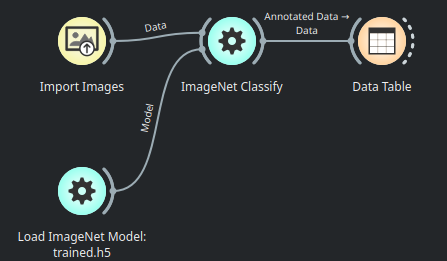
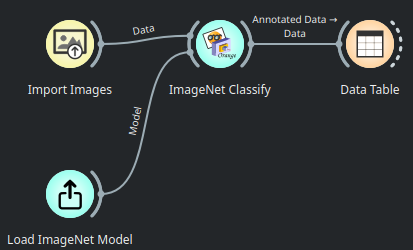
added preprocess

Changed region(s): [[0.0, 0.028, 0.9879, 1.0], [0.0581, 0.308, 0.2906, 0.392], [0.7845, 0.308, 0.9879, 0.392]]

diff --git a/orangecontrib/imagenets/widgets/ow_image_preprocessor.py b/orangecontrib/imagenets/widgets/ow_image_preprocessor.py
@@ -1,0 +1,240 @@
+import os
+import numpy as np
+import cv2
+
+from AnyQt.QtCore import Qt
+from AnyQt.QtGui import QPixmap, QFont
+from AnyQt.QtWidgets import QLabel, QVBoxLayout, QFileDialog, QPushButton, QCheckBox, QSpinBox, QHBoxLayout, QFrame, QGroupBox
+from PyQt5.QtCore import QThread, pyqtSignal
+
+from Orange.widgets import gui
+from Orange.widgets.widget import OWWidget, Input, Output
+from Orange.widgets.settings import Setting
+from Orange.data import Table, Domain, StringVariable
+
+from orangecontrib.imagenets.util.image_table import image_table_variables
+
+class PreprocessWorker(QThread):
+    progress = pyqtSignal(int)
+    finished = pyqtSignal(object)
+
+    def __init__(self, data, output_dir, do_grayscale, do_resize, resize_width, resize_height, do_normalize):
+        super().__init__()
+        self.data = data
+        self.output_dir = output_dir
+        self.do_grayscale = do_grayscale
+        self.do_resize = do_resize
+        self.resize_width = resize_width
+        self.resize_height = resize_height
+        self.do_normalize = do_normalize
+        self.origin, self.image_col_index = image_table_variables(data)
+
+    def run(self):
+        total = len(self.data)
+
+        for i, row in enumerate(self.data):
+            img_path = os.path.join(self.origin, row.metas[self.image_col_index])
+            if not os.path.exists(img_path):
+                continue
+            img = cv2.imread(img_path)
+            if self.do_grayscale:
+                img = cv2.cvtColor(img, cv2.COLOR_BGR2GRAY)
+            if self.do_resize:
+                img = cv2.resize(img, (self.resize_width, self.resize_height))
+            if self.do_normalize:
+                img = cv2.normalize(img, None, 0, 255, cv2.NORM_MINMAX)
+            img = img.astype(np.uint8)
+            out_path = os.path.join(self.output_dir, row.metas[self.image_col_index])
+            out_dir = os.path.dirname(out_path)
+            if not os.path.exists(out_dir):
+                os.makedirs(out_dir, exist_ok=True)
+            cv2.imwrite(out_path, img)
+            self.progress.emit(int(100 * (i + 1) / total))
+
+        data = self.data.copy()
+        data.domain.metas[self.image_col_index].attributes["origin"] = self.output_dir
+        self.finished.emit(data)
+
+class OWImagePreprocessor(OWWidget):
+    name = "Preprocess Images"
+    description = "Resize and normalize images, saving to disk."
+    icon = "icons/preprocess.svg"
+    priority = 10
+
+    class Inputs:
+        data = Input("Data", Table)
+
+    class Outputs:
+        preprocessed_data = Output("Preprocessed Data", Table)
+
+    do_grayscale = Setting(False)
+    do_resize = Setting(True)
+    resize_width = Setting(224)
+    resize_height = Setting(224)
+    do_normalize = Setting(False)
+
+    def __init__(self):
+        super().__init__()
+        self.data = None
+        self.output_dir = None
+        self.layout_controlArea()
+        self.layout_mainArea()
+
+    def layout_controlArea(self):
+        select_button = QPushButton("Select Output Folder")
+        select_button.clicked.connect(self.select_folder)
+        self.info_label = QLabel("Waiting for input...")
+
+        self.gray_cb = QCheckBox("Convert to Grayscale")
+        self.gray_cb.setChecked(self.do_grayscale)
+        self.gray_cb.stateChanged.connect(lambda: self.settings_changed("do_grayscale", self.gray_cb.isChecked()))
+
+        self.resize_cb = QCheckBox("Resize Images")
+        self.resize_cb.setChecked(self.do_resize)
+        self.resize_cb.stateChanged.connect(lambda: self.settings_changed("do_resize", self.resize_cb.isChecked()))
+
+        self.width_spin = QSpinBox()
+        self.width_spin.setRange(32, 2048)
+        self.width_spin.setValue(self.resize_width)
+        self.width_spin.valueChanged.connect(lambda val: self.settings_changed("resize_width", val))
+
+        self.height_spin = QSpinBox()
+        self.height_spin.setRange(32, 2048)
+        self.height_spin.setValue(self.resize_height)
+        self.height_spin.valueChanged.connect(lambda val: self.settings_changed("resize_height", val))
+
+        self.norm_cb = QCheckBox("Normalize Images")
+        self.norm_cb.setChecked(self.do_normalize)
+        self.norm_cb.stateChanged.connect(lambda: self.settings_changed("do_normalize", self.norm_cb.isChecked()))
+
+        size_frame = QFrame()
+        size_layout = QHBoxLayout()
+        size_layout.addWidget(QLabel("Width:"))
+        size_layout.addWidget(self.width_spin)
+        size_layout.addWidget(QLabel("Height:"))
+        size_layout.addWidget(self.height_spin)
+        size_frame.setLayout(size_layout)
+
+        a = self.controlArea.layout().addWidget
+        a(self.info_label)
+        a(select_button)
+        a(self.gray_cb)
+        a(self.norm_cb)
+        a(self.resize_cb)
+        a(size_frame)
+
+        self.controlArea.layout().setAlignment(Qt.AlignTop)
+
+    def layout_mainArea(self):
+        # Font for titles
+        title_font = QFont()
+        title_font.setBold(True)
+        title_font.setPointSize(12)
+
+        # ---- Before Group ----
+        before_group = QGroupBox("Before")
+        before_group.setStyleSheet("QGroupBox { font-weight: bold; border: 1px solid gray; margin-top: 10px; }")
+        before_layout = QVBoxLayout()
+
+        self.image_label = QLabel("No preview available")
+        self.image_label.setAlignment(Qt.AlignCenter)
+        self.image_label.setMinimumSize(256, 256)
+        before_layout.addWidget(self.image_label)
+
+        before_group.setLayout(before_layout)
+
+        # ---- After Group ----
+        after_group = QGroupBox("After")
+        after_group.setStyleSheet("QGroupBox { font-weight: bold; border: 1px solid gray; margin-top: 10px; }")
+        after_layout = QVBoxLayout()
+
+        self.aug_image_label = QLabel("No preview available")
+        self.aug_image_label.setAlignment(Qt.AlignCenter)
+        self.aug_image_label.setMinimumSize(256, 256)
+        after_layout.addWidget(self.aug_image_label)
+
+        after_group.setLayout(after_layout)
+
+        # ---- Add to mainArea ----
+        layout = self.mainArea.layout()
+        layout.addWidget(before_group)
+        layout.addWidget(after_group)
+
+    def settings_changed(self, attr, value):
+        setattr(self, attr, value)
+        self.show_preview_image()
+
+    def select_folder(self):
+        folder = QFileDialog.getExistingDirectory(self, "Select Folder")
+        if folder:
+            self.output_dir = folder
+            self.try_preprocess()
+
+    @Inputs.data
+    def set_data(self, data):
+        self.data = data
+        #self.try_preprocess()
+        self.show_preview_image()
+
+    def try_preprocess(self):
+        if self.data is not None and self.output_dir:
+            self.info_label.setText("Preprocessing...")
+            self.progressBarInit()
+
+            self.worker = PreprocessWorker(
+                self.data, self.output_dir,
+                self.do_grayscale,
+                self.do_resize,
+                self.resize_width,
+                self.resize_height,
+                self.do_normalize
+            )
+            self.worker.progress.connect(self.progressBarSet)
+            self.worker.finished.connect(self.handle_preprocessed)
+            self.worker.start()
+
+    def handle_preprocessed(self, table: Table):
+        self.Outputs.preprocessed_data.send(table)
+        self.progressBarFinished()
+        self.info_label.setText("Preprocessing complete.")
+
+    def preprocess_image(self, img_path: str) -> QPixmap:
+        img = cv2.imread(img_path)
+        if self.do_grayscale:
+            img = cv2.cvtColor(img, cv2.COLOR_BGR2GRAY)
+        if self.do_resize:
+            img = cv2.resize(img, (self.resize_width, self.resize_height))
+        if self.do_normalize:
+            img = cv2.normalize(img, None, 0, 255, cv2.NORM_MINMAX)
+        img = img.astype(np.uint8)
+        is_success, buffer = cv2.imencode(".png", img)
+        pixmap = QPixmap()
+        pixmap.loadFromData(buffer, "png")
+        return pixmap
+
+    def show_preview_image(self):
+        if not self.data:
+            self.data.setText("No data")
+            return
+
+        origin, image_col_index = image_table_variables(self.data)
+
+        try:
+            # Get the first image path
+            path = self.data[0].metas[image_col_index]
+            full_path = os.path.join(origin, path)
+            pixmap = QPixmap(full_path)
+            self.image_label.setPixmap(pixmap)
+            preprocessed_pixmap = self.preprocess_image(full_path)
+            self.aug_image_label.setPixmap(preprocessed_pixmap)
+        except Exception as e:
+            self.image_label.setText(f"Error loading preview:\n{str(e)}")
+
+if __name__ == "__main__":
+    from Orange.widgets.utils.widgetpreview import WidgetPreview
+    from orangecontrib.imageanalytics.import_images import ImportImages, scan
+    import_images = ImportImages()
+    data_dir = "/media/veracrypt1/work/competition/animals"
+    images = import_images.image_meta(scan(data_dir))
+    data, err = import_images(data_dir)
+    WidgetPreview(OWImagePreprocessor).run(data)

diff --git a/orangecontrib/imagenets/widgets/ow_load_imagenet.py b/orangecontrib/imagenets/widgets/ow_load_imagenet.py
@@ -25,9 +25,11 @@ class OWLoadKerasModel(OWWidget):
         super().__init__()
         self.model = None
         self.mainArea.layout().addWidget(QLabel("Load Options:"))
-        gui.button(self.mainArea, self, "Load from H5", callback=self.load_h5_dialog)
-        gui.button(self.mainArea, self, "Load from JSON + Weights", callback=self.load_json_dialog)
+        gui.button(self.mainArea, self, "Load from H5", callback=self.load_h5_dialog, width=250)
+        gui.button(self.mainArea, self, "Load from JSON + Weights", callback=self.load_json_dialog, width=250)
         self.mainArea.layout().setAlignment(Qt.AlignTop)
+        self.adjustSize()
+
         if len(self.load_file) > 0:
             if self.load_type == 'h5':
                 self.load_h5(self.load_file)
@@ -69,3 +71,9 @@ class OWLoadKerasModel(OWWidget):
             #self.setStatusMessage(f"Loaded: {os.path.basename(json_path)} + weights")
         except Exception as e:
             self.error(str(e))
+
+if __name__ == "__main__":
+    from Orange.widgets.utils.widgetpreview import WidgetPreview
+    WidgetPreview(OWLoadKerasModel).run()
+
+    

diff --git a/orangecontrib/imagenets/widgets/ow_save_imagenet.py b/orangecontrib/imagenets/widgets/ow_save_imagenet.py
@@ -23,9 +23,10 @@ class OWSaveImageNet(OWWidget):
         super().__init__()
         self.model = None
 
-        gui.button(self.mainArea, self, "Save as .h5", callback=self.save_as_h5)
-        gui.button(self.mainArea, self, "Save as JSON", callback=self.save_as_json)
+        gui.button(self.mainArea, self, "Save as .h5", callback=self.save_as_h5, width=250)
+        gui.button(self.mainArea, self, "Save as JSON", callback=self.save_as_json, width=250)
         self.mainArea.layout().setAlignment(Qt.AlignTop)
+        self.adjustSize()
 
     @Inputs.model
     def set_model(self, model):
@@ -55,3 +56,7 @@ class OWSaveImageNet(OWWidget):
             with open(filename, "w") as f:
                 f.write(self.model.to_json(indent=2))
             self.last_dir = os.path.dirname(filename)
+
+if __name__ == "__main__":
+    from Orange.widgets.utils.widgetpreview import WidgetPreview
+    WidgetPreview(OWSaveImageNet).run()

diff --git a/orangecontrib/imagenets/util/image_table.py b/orangecontrib/imagenets/util/image_table.py
@@ -1,0 +1,15 @@
+from Orange.data import Table
+
+def image_table_variables(data: Table) -> [str, int]:
+    domain = data.domain
+    image_col = None
+    origin = None
+    for var in domain.metas:
+        if var.attributes.get("type") == "image":
+            image_col = var
+            origin = var.attributes.get("origin")
+            break
+    if image_col is None:
+        raise Exception("No variable with type \"image\"")
+    image_col_index = domain.metas.index(image_col)
+    return origin, image_col_index

diff --git a/orangecontrib/imagenets/widgets/ow_image_train_and_score.py b/orangecontrib/imagenets/widgets/ow_image_train_and_score.py
@@ -43,11 +43,11 @@ class OWImageTrainAndScore(widget.OWWidget):
     priority = 10
 
     class Inputs:
-        model = Input("Learner", object)
+        model = Input("Learner", object, auto_summary=False)
         data = Input("Evaluation Data", Table)
 
     class Outputs:
-        trained_model = Output("Trained Model", object)
+        trained_model = Output("Trained Model", object, auto_summary=False)
 
     batch_size = Setting(32)
     dropout_rate = Setting(0.5)

diff --git a/orangecontrib/imagenets/widgets/ow_imagenet_builder.py b/orangecontrib/imagenets/widgets/ow_imagenet_builder.py
@@ -49,7 +49,7 @@ class OWImageNetBuilder(OWWidget):
     model_config = Setting("[]")  # JSON list of layers
 
     class Outputs:
-        model = Output("Model", object)
+        model = Output("Model", object, auto_summary=False)
 
     def __init__(self):
         super().__init__()

diff --git a/README.md b/README.md
@@ -30,4 +30,11 @@ Load the image net from a saved file.
 
 ![Viewing the classification results](imgs/classified-data-table.png)
 
+### Preprocessing and Augmenting Images
+
+![Preprocess and Augment Workflow](imgs/preprocess-and-augment-workflow.png)
+
+![Preprocess image widget](imgs/preprocess.png)
+
+![Augment image widget](imgs/augment.png)
 
